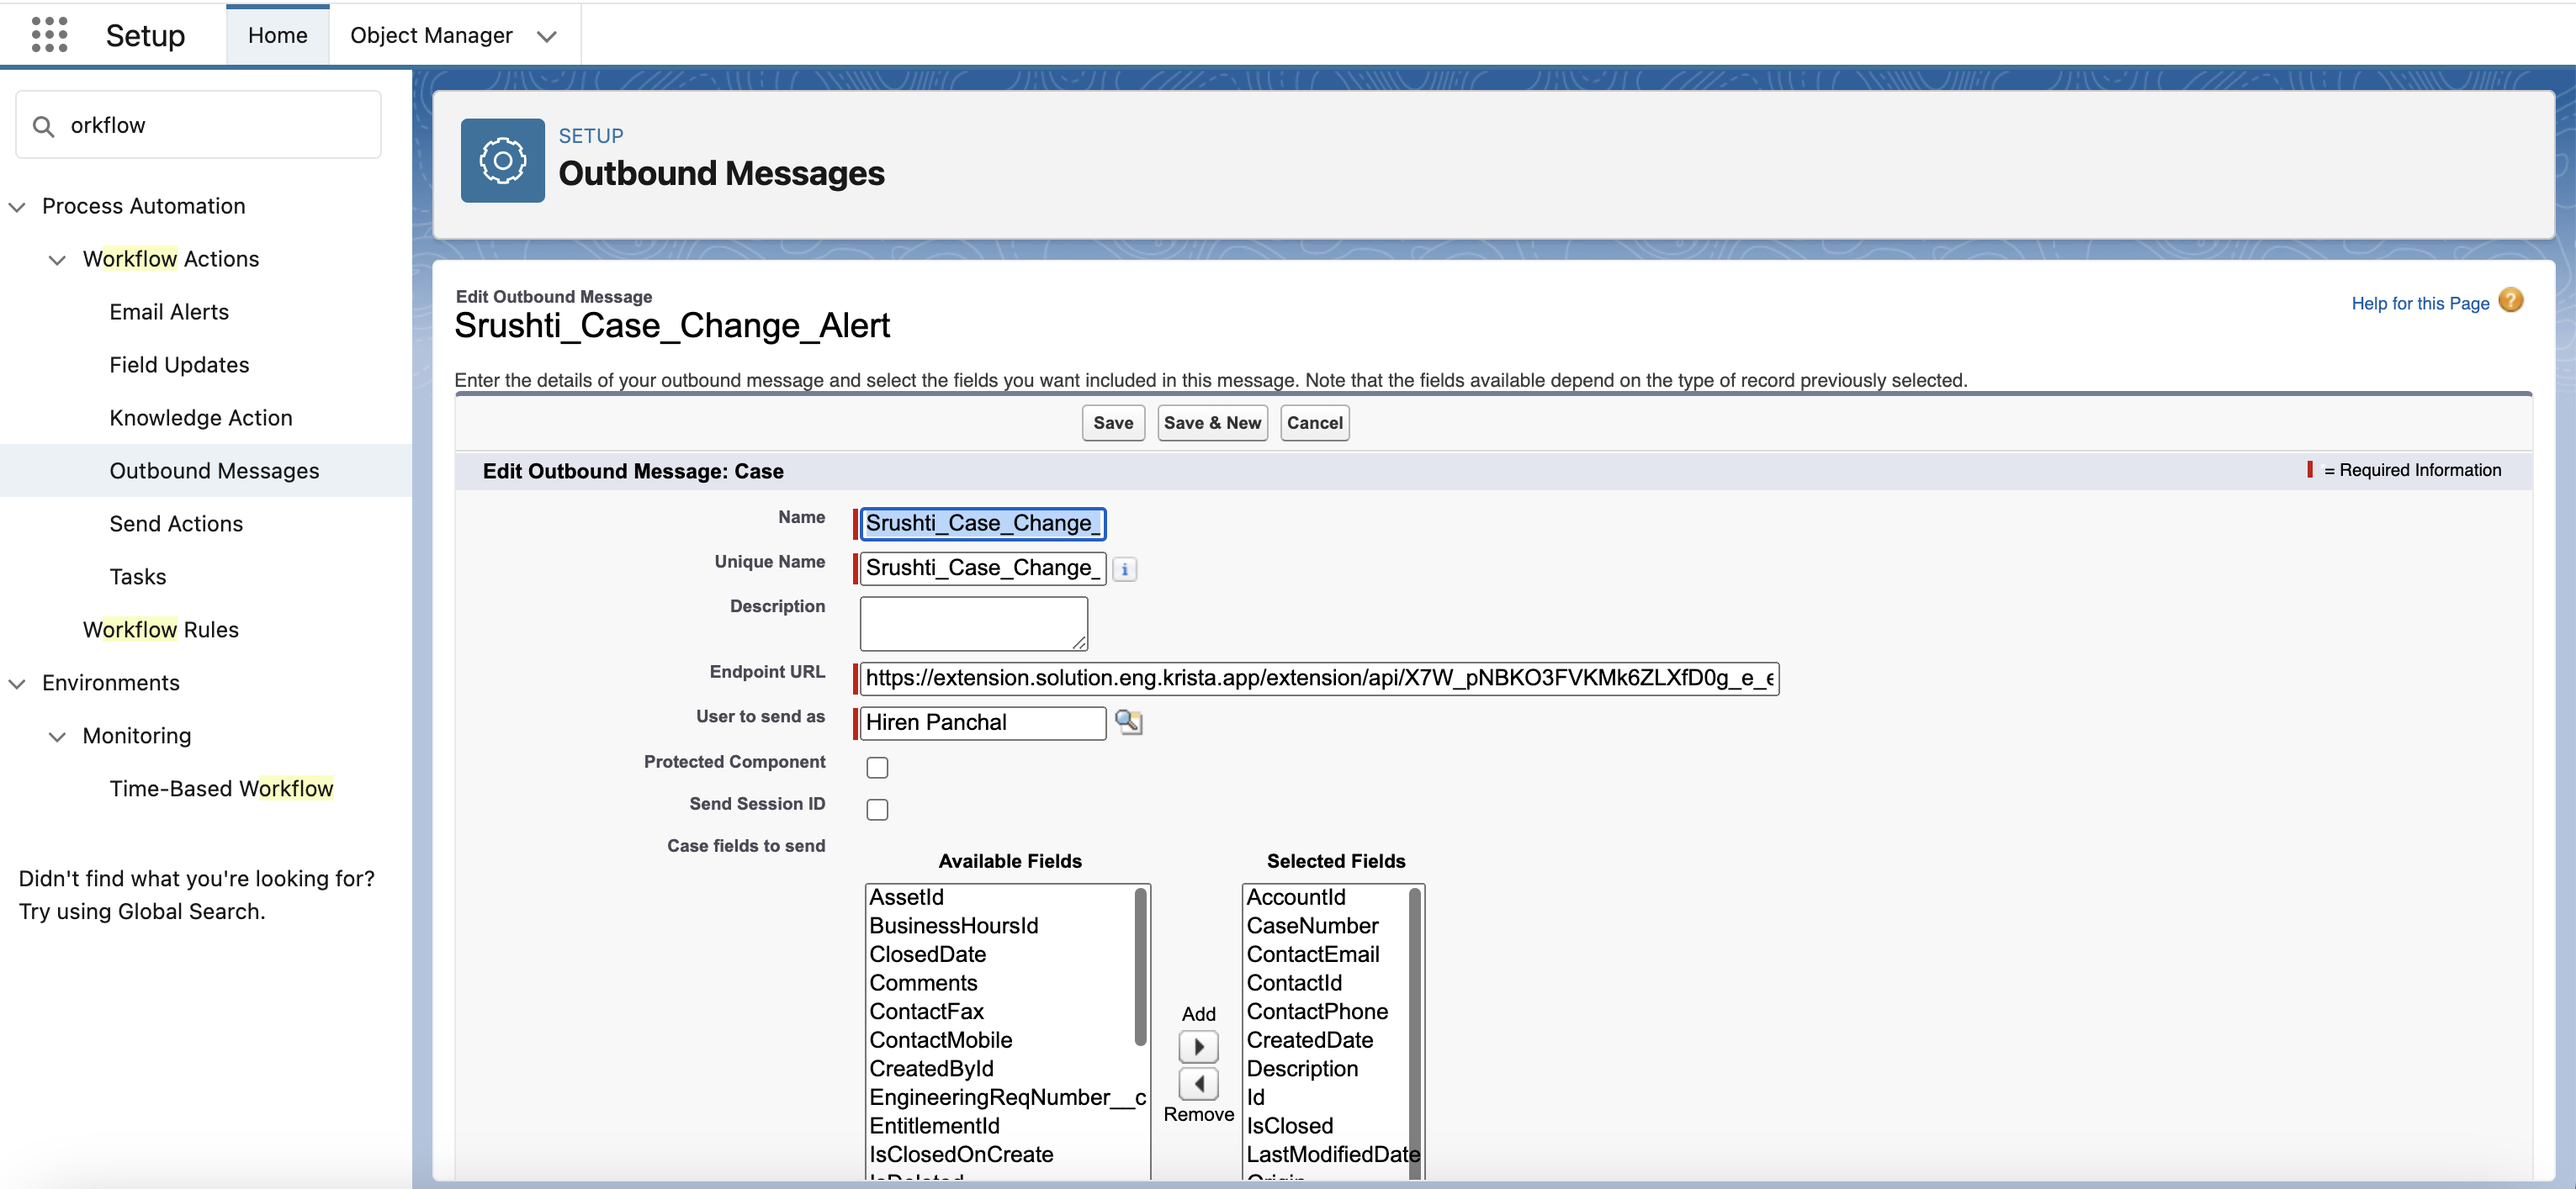
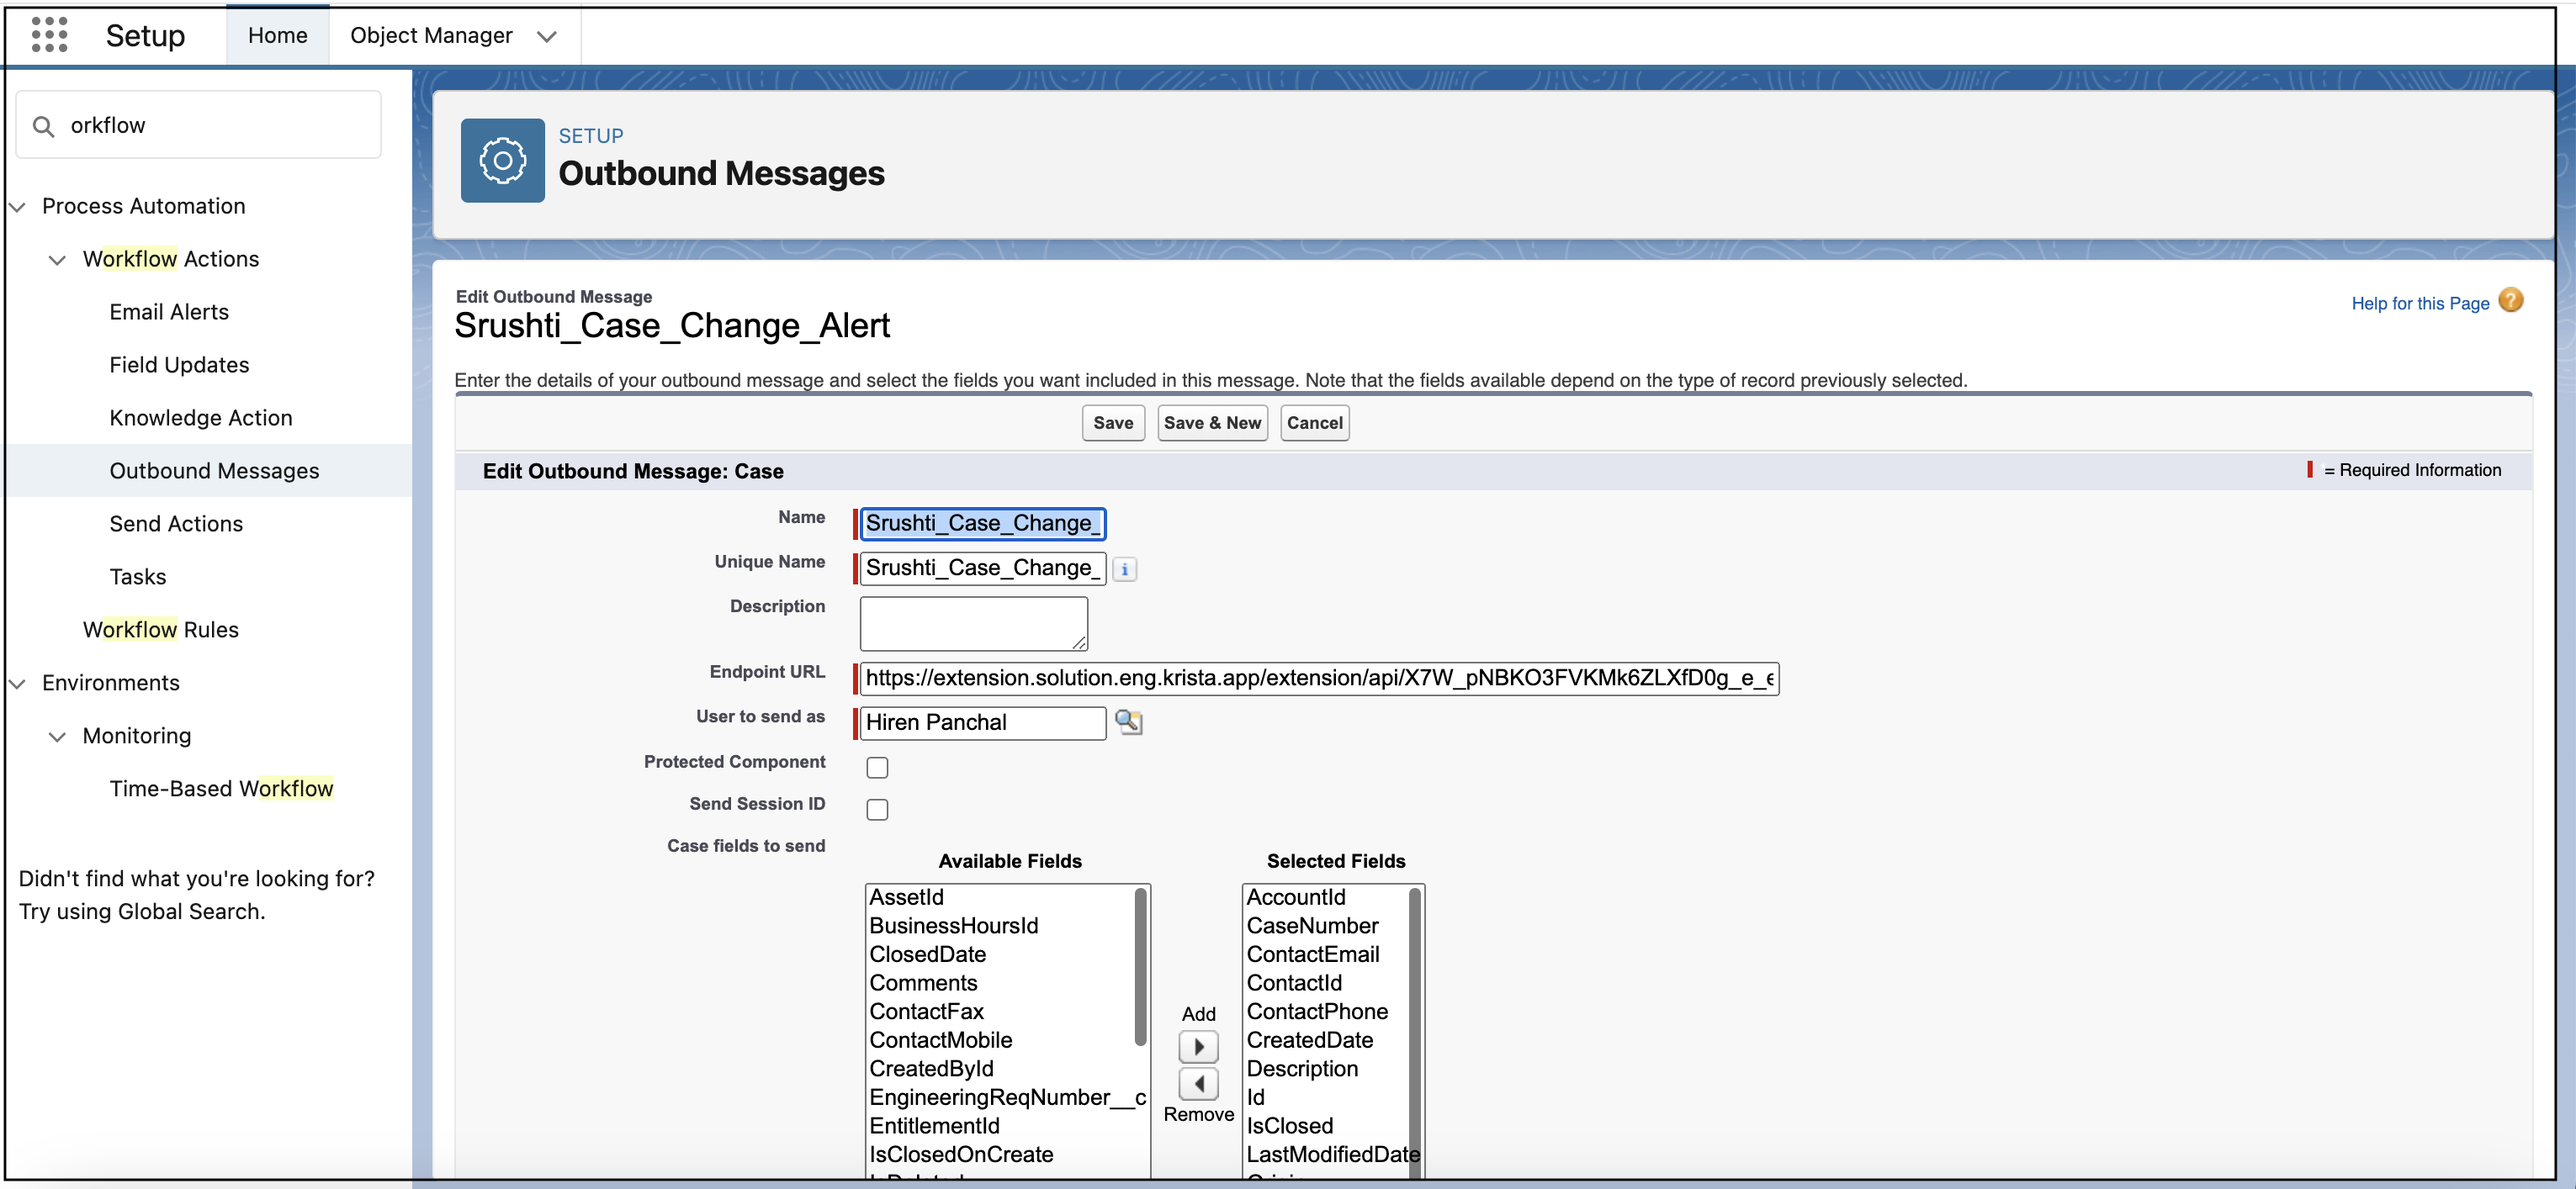
Refactor

diff --git a/salesforce_customer_service/src/main/java/app/krista/extensions/crm/customer_relations/salesforce_customer_service/util/xmlparser/XMlResponseParser.java b/salesforce_customer_service/src/main/java/app/krista/extensions/crm/customer_relations/salesforce_customer_service/util/xmlparser/XMlResponseParser.java
@@ -35,7 +35,7 @@ public final class XMlResponseParser {
                 xsr.close();
             }
         } catch (XMLStreamException | JAXBException cause) {
-            cause.printStackTrace();
+            System.err.println("XML Parsing Failed for " + notificationClass.getSimpleName() + " with error " + cause.getMessage());
         }
         return null;
     }
